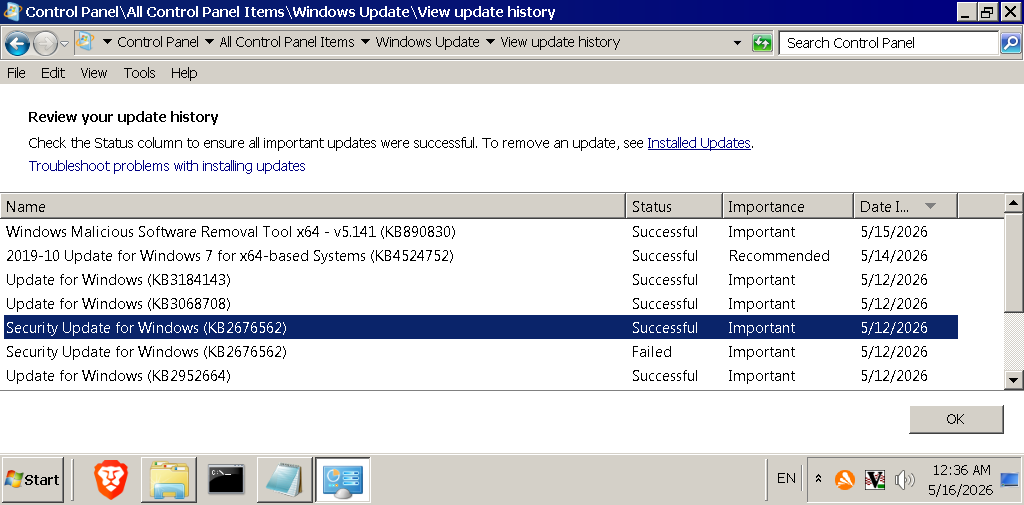
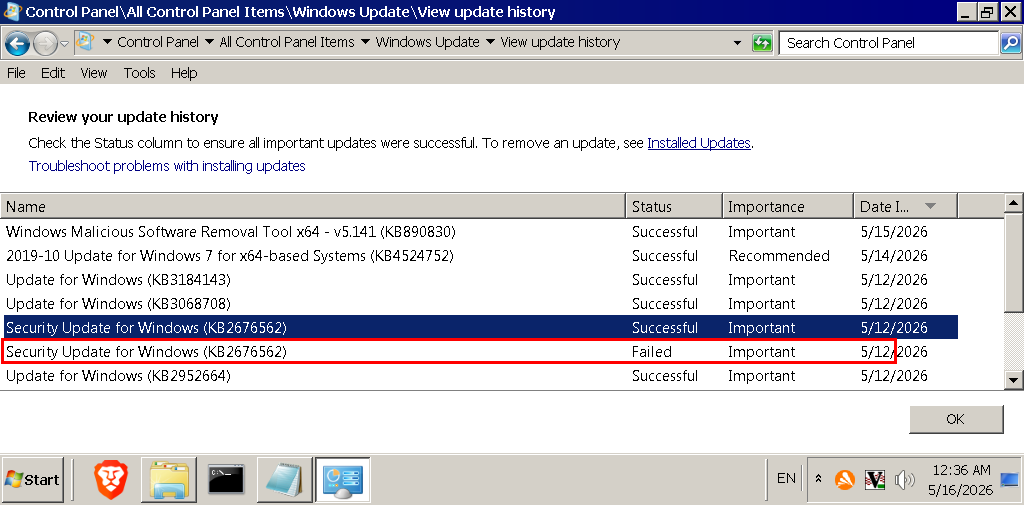
writre more

Changed region(s): [[0.0, 0.7129, 0.875, 0.7426], [0.0, 0.6535, 0.875, 0.6832]]

diff --git a/README-Cont2.md b/README-Cont2.md
@@ -40,9 +40,25 @@ First things first, You can’t directly download a Windows 7 SP1 ISO from Mic
 As Windows 7 officially reached end of support on January 14, 2020. The built-in Windows Update won't work but you have three ways to apply all aforementioned updates. 
 
 1. Offline update - Navigate to [Updates: Microsoft Windows 7 Multilingual (flersproget)](https://archive.org/details/windows7updates24), download `windows7updates24.zip` which contains 
-`wou-w61-x86 [2023-v1].iso` and `wou-w61-x64 [2023-v1].iso`.  Mount the .iso on target machine and run `UpdateInstaller.exe` to let it go... It run for hours and reboot several times until finish. 
-2. Manual update - Navigate to [MicrosoftRUpdate Catalog](https://catalog.update.microsoft.com/Home.aspx), type the **KB** number and go ahead to download the individual update. You can choose `.exe` and `.msi` to run. If one or two updates have failed, you can apply them manually, the problem of this approach is tedious; 
+`wou-w61-x86 [2023-v1].iso` and `wou-w61-x64 [2023-v1].iso`.  Mount the .iso on target machine and run `UpdateInstaller.exe`. 
+![alt InstallWindowsUpdate](img/InstallWindowsUpdate.png)
+
+It runs for hours and reboots several times until finish. 
+
+2. Manual update - In any case a update may fail. Navigate to [MicrosoftRUpdate Catalog](https://catalog.update.microsoft.com/Home.aspx), type `KB2676562` and press `Search`.
+![alt KB2676562-0](img/KB2676562-0.png)
+![alt KB2676562-1](img/KB2676562-1.png)
+
+Choose the one match your platform and press `Download.` 
+![alt KB2676562-2](img/KB2676562-2.png)
+![alt KB2676562-3](img/KB2676562-3.png)
+
+Run the `.exe` to update, the problem of this approach is too tedious; 
+
 3. Automatic update via third part software - Navigate to [Legacy Update](https://legacyupdate.net/), download `LegacyUpdate-1.13.exe` and install it. Legacy Update perform the same task as Windows Update. The problem of this approach is *SLOW*.
+![alt LegacyUpdate-1](img/LegacyUpdate-1.png)
+
+![alt LegacyUpdate-2](img/LegacyUpdate-2.png)
 
 
 #### III. The Major issues 
@@ -52,7 +68,7 @@ As Windows 7 officially reached end of support on January 14, 2020. The bu
 
 
 #### IV. Summary 
-My wallpaper is [here](img/Copilot_Windows_7.png), which is retouched by Copilot. Enjoy! 
+My wallpaper is [here](img/Copilot_Windows_7.png), which is a version retouched by Copilot. Enjoy! 
 
 
 #### V. Bibliography